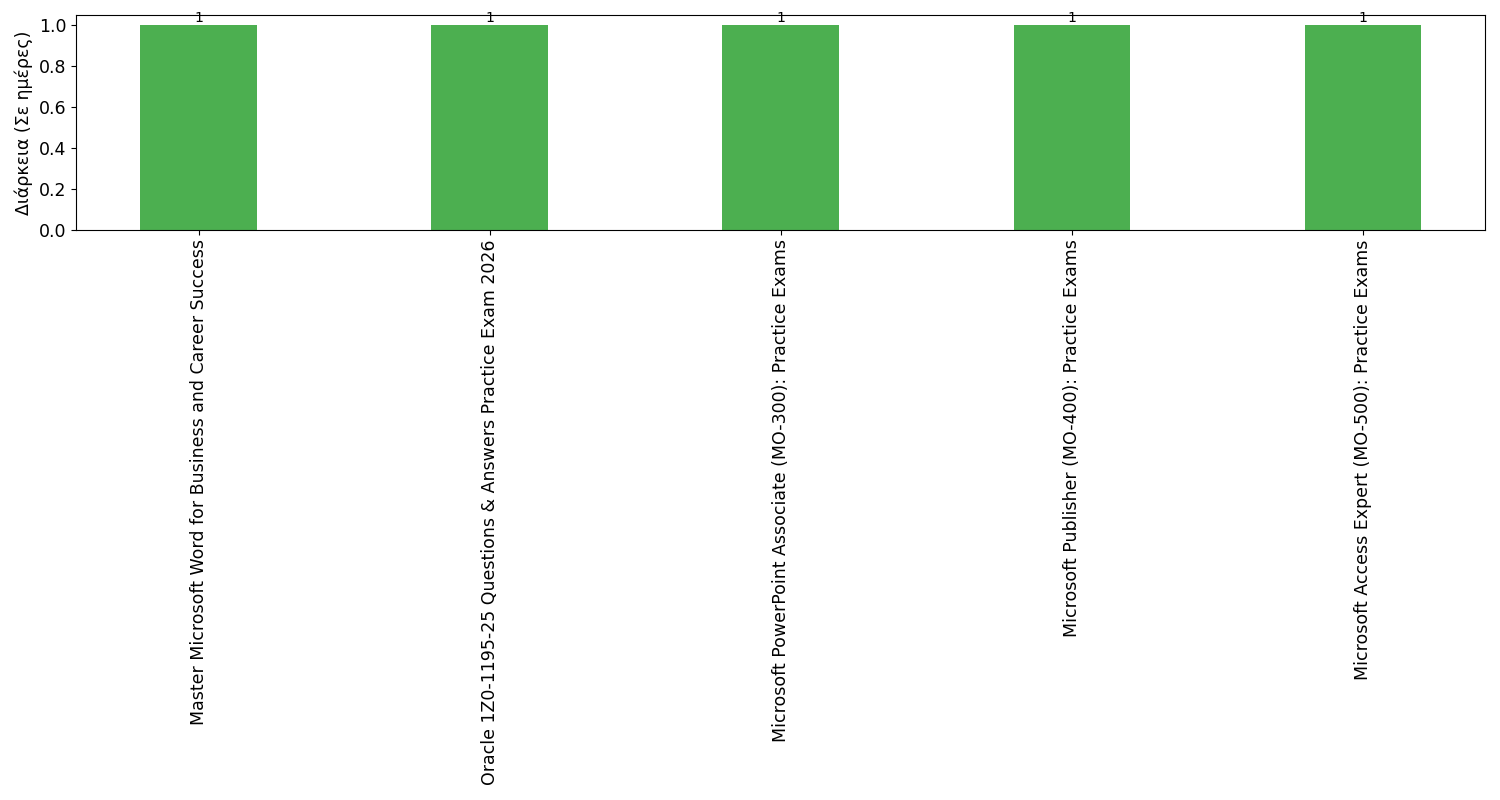
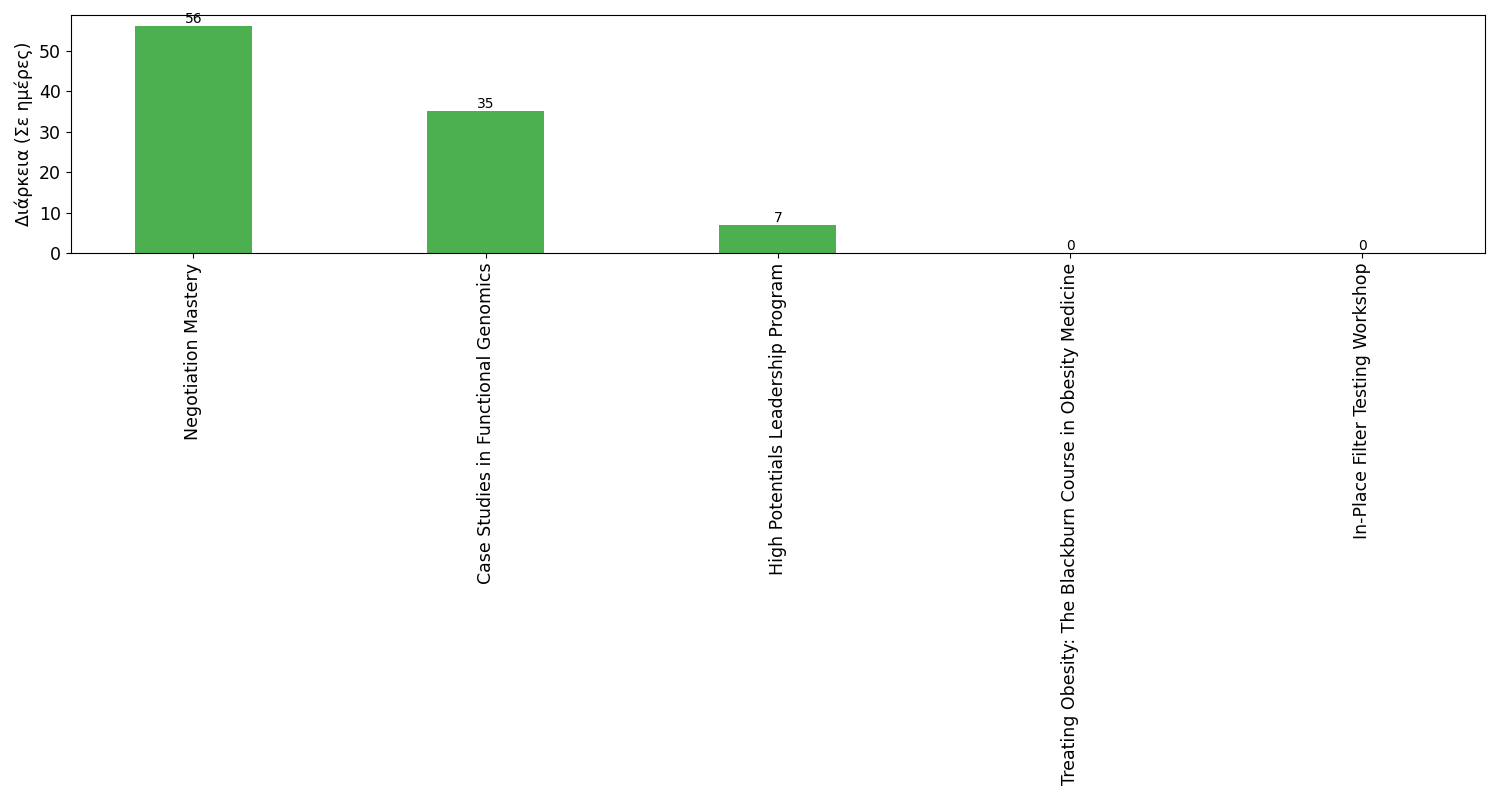
...

diff --git a/readFunctions.py b/readFunctions.py
@@ -97,7 +97,7 @@ def readFromCSVWithFilters(maxCost,language,category,difficulty,subjectNames,dro
             for j in range(cols):
 
                 diffComp = (df.values[i][2].lower() == difficulty.lower() or difficulty == '')
-                categoryComp = (df.values[i][3].lower() == category.lower() or category == '')
+                categoryComp = (df.values[i][3].lower().replace(" ", "") == category.lower().replace(" ", "") or category == '')
                 maxCostComp = (maxCost == '' or df.values[i][1] <= float(maxCost))
                 langComp = (df.values[i][5].lower() == language.lower() or language == '')
                 if (diffComp and categoryComp and maxCostComp and langComp):

diff --git a/scraper.py b/scraper.py
@@ -200,9 +200,11 @@ def CourseraScraper(url):
             break
 
         provider_tag = block.find("p", class_="cds-ProductCard-partnerNames css-4s48ix")
+        #provider_tag = block.find("p", class_="cds-ProductCard-partnerNames css-4s48ix")
         provider = provider_tag.get_text(strip=True) if provider_tag else "N/A"
 
         title_tag = block.find("h3", class_="cds-CommonCard-title")
+        #title_tag = block.find("h3", class_="cds-CommonCard-title css-6ecy9b")
         title = title_tag.get_text(strip=True) if title_tag else "N/A"
 
 